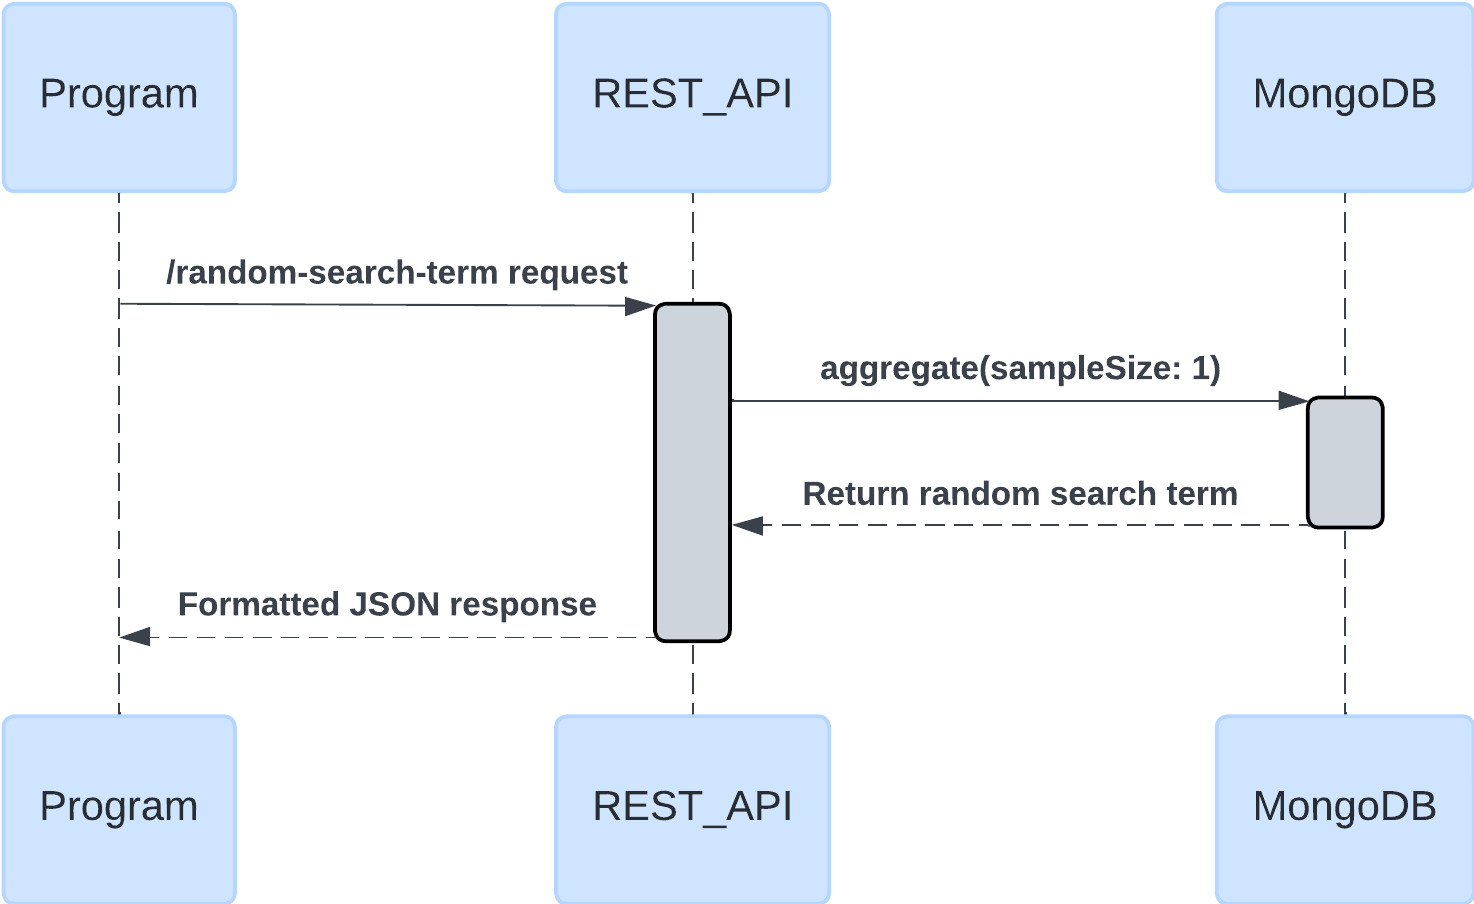
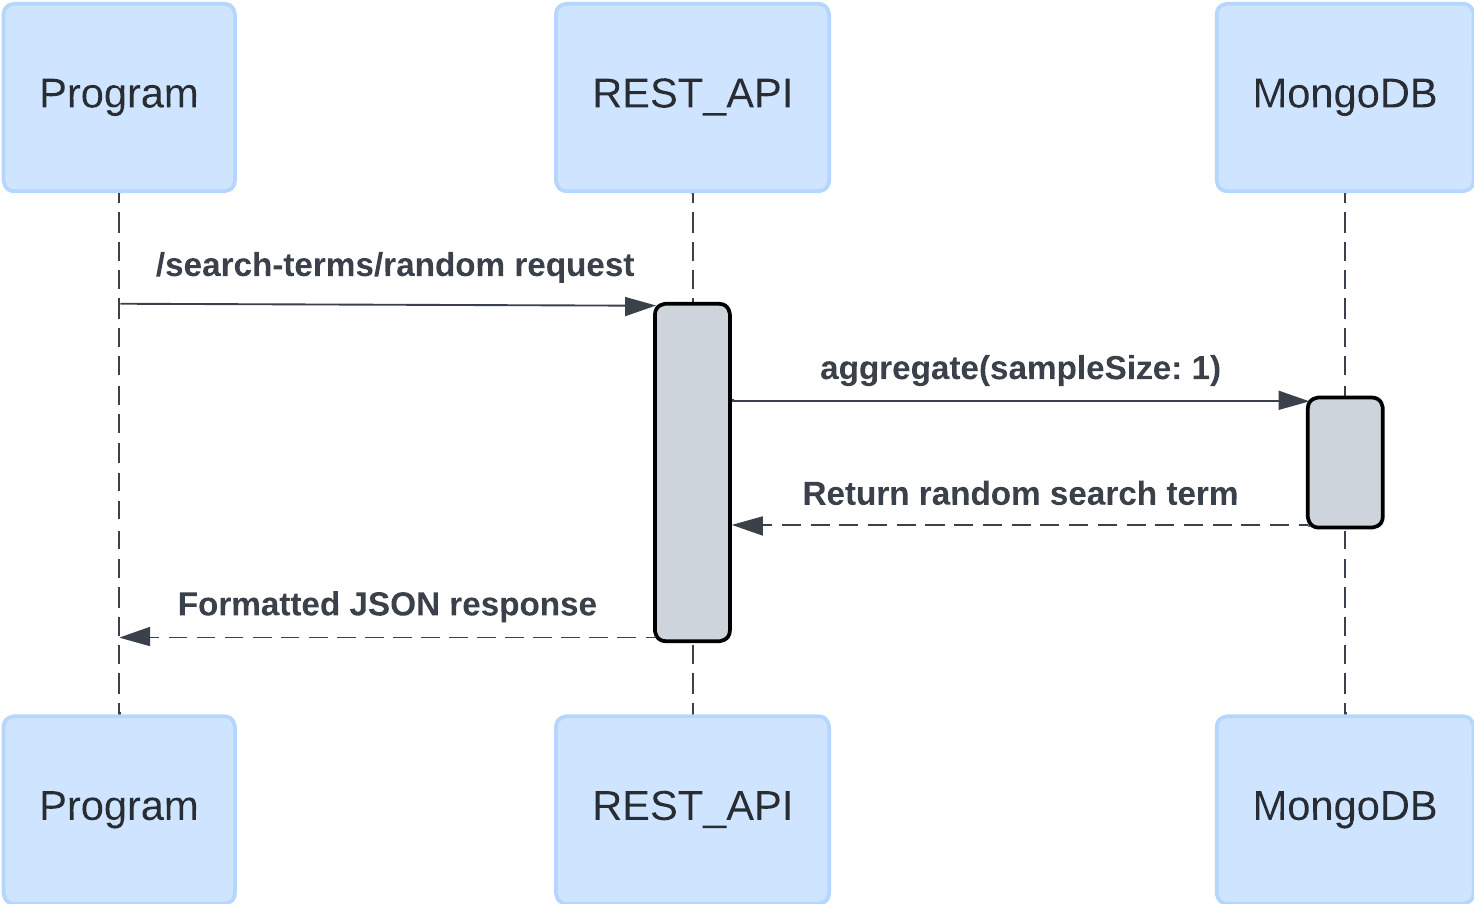
Updated routes and README to reflect more restful URLs

Changed region(s): [[0.0936, 0.2788, 0.4369, 0.3407]]

diff --git a/README.md b/README.md
@@ -16,17 +16,17 @@ To start up the server/application, run `npm start` in the project directory.
 
 ## Making Requests and Receiving Data
 
-There are 4 different endpoints to use in this application, /add-search-term, /all-search-terms, /matching-search-terms, and /random-search-term. The service is not deployed, so the calls are meant to be made via localhost at the port you chose in your env file. In the main application, you may utilize another name for the port in a different env file, or simply hard code the port you chose. In this case, we will just represent the port as PORT in a template literal.
+There are 4 different endpoints to use in this application, /search-terms/add, /search-terms/all, /search-terms/match/:search, and /search-terms/random. The service is not deployed, so the calls are meant to be made via localhost at the port you chose in your env file. In the main application, you may utilize another name for the port in a different env file, or simply hard code the port you chose. In this case, we will just represent the port as PORT in a template literal.
 
 ### Add a Search Term
 
-The endpoint /add-search-term can be used to add a new search term to the database. We can use fetch or axios to make the post request, and place the search term as "search" in the request body. The response includes JSON with an acknowledgement of the addition of the search term and the id of the added search term in the database. These code snippets should be used in an async function.
+The endpoint /search-terms/add can be used to add a new search term to the database. We can use fetch or axios to make the post request, and place the search term as "search" in the request body. The response includes JSON with an acknowledgement of the addition of the search term and the id of the added search term in the database. These code snippets should be used in an async function.
 
 #### Fetch
 
 ```javascript
 // Make the request to the endpoint
-const response = await fetch(`http://localhost:${PORT}/add-search-term`, {
+const response = await fetch(`http://localhost:${PORT}/search-terms/add`, {
   method: "POST",
   headers: {
     "Content-Type": "application/json",
@@ -43,7 +43,7 @@ const response = await response.json();
 ```javascript
 // Make the request to the endpoint
 const response = await axios.post(
-  `http://localhost:${PORT}/add-search-term`,
+  `http://localhost:${PORT}/search-terms/add`,
   {
     search: "search term to add",
   },
@@ -52,7 +52,8 @@ const response = await axios.post(
   }
 );
 
-// Axios automatically parses JSON, so response has data
+// Access response.data for the data
+const data = response.data;
 ```
 
 #### Response Format
@@ -70,13 +71,13 @@ const response = await axios.post(
 
 ### Get All Search Terms
 
-The endpoint /all-search-terms can be used to retrieve all search terms from the database. We can use fetch or axios to make the get request. The response includes JSON with key "searchTerms" that has a value of the array of search terms. These code snippets should be used in an async function.
+The endpoint /search-terms/all can be used to retrieve all search terms from the database. We can use fetch or axios to make the get request. The response includes JSON with key "searchTerms" that has a value of the array of search terms. These code snippets should be used in an async function.
 
 #### Fetch
 
 ```javascript
 // Make the request to the endpoint
-const response = await fetch(`http://localhost:${PORT}/all-search-terms`);
+const response = await fetch(`http://localhost:${PORT}/search-terms/all`);
 
 // Parse the JSON to receive the data
 const response = await response.json();
@@ -86,9 +87,10 @@ const response = await response.json();
 
 ```javascript
 // Make the request to the endpoint
-const response = await axios.get(`http://localhost:${PORT}/all-search-terms`);
+const response = await axios.get(`http://localhost:${PORT}/search-terms/all`);
 
-// Axios automatically parses JSON, so response has data
+// Access response.data for the data
+const data = response.data;
 ```
 
 #### Response Format
@@ -114,19 +116,15 @@ const response = await axios.get(`http://localhost:${PORT}/all-search-terms`);
 
 ### Get Matching Search Terms
 
-The endpoint /matching-search-terms can be used to retrieve all search terms in the database beginning with the string sent in the request. This may represent a portion of a typed word as a user interacts with a search bar in an application. We can use fetch or axios to make the get request, and place the string as "search" in the request body. The response includes JSON with key "searchTerms" that has a value of the array of search terms. These code snippets should be used in an async function.
+The endpoint /search-terms/match/:search can be used to retrieve all search terms in the database beginning with the string sent in the request parameter 'search'. This may represent a portion of a typed word as a user interacts with a search bar in an application. We can use fetch or axios to make the get request, and enter the string as part of the request URL. The response includes JSON with key "searchTerms" that has a value of the array of search terms. These code snippets should be used in an async function.
 
 #### Fetch
 
 ```javascript
 // Make the request to the endpoint
-const response = await fetch(`http://localhost:${PORT}/matching-search-terms`, {
-  method: "GET",
-  headers: {
-    "Content-Type": "application/json",
-  },
-  body: { search: "scho" },
-});
+const response = await fetch(
+  `http://localhost:${PORT}/search-terms/match/scho`
+);
 
 // Parse the JSON to receive the data
 const response = await response.json();
@@ -137,16 +135,11 @@ const response = await response.json();
 ```javascript
 // Make the request to the endpoint
 const response = await axios.get(
-  `http://localhost:${PORT}/add-search-term`,
-  {
-    search: "scho",
-  },
-  {
-    headers: { "Content-Type": "application/json" },
-  }
+  `http://localhost:${PORT}/search-terms/match/scho`
 );
 
-// Axios automatically parses JSON, so response has data
+// Access response.data for the data
+const data = response.data;
 ```
 
 #### Response Format
@@ -163,13 +156,13 @@ const response = await axios.get(
 
 ### Get a Random Search Term
 
-The endpoint /random-search-term can be used to retrieve a random search term from the database. This can be used for "feeling lucky" utilities in an application that utilizes a search functionality. We can use fetch or axios to make the get request. The response includes JSON with key "randomTerm" that has a value of the random search term as a string. These code snippets should be used in an async function.
+The endpoint /search-terms/random can be used to retrieve a random search term from the database. This can be used for "feeling lucky" utilities in an application that utilizes a search functionality. We can use fetch or axios to make the get request. The response includes JSON with key "randomTerm" that has a value of the random search term as a string. These code snippets should be used in an async function.
 
 #### Fetch
 
 ```javascript
 // Make the request to the endpoint
-const response = await fetch(`http://localhost:${PORT}/random-search-term`);
+const response = await fetch(`http://localhost:${PORT}/search-terms/random`);
 
 // Parse the JSON to receive the data
 const response = await response.json();
@@ -179,9 +172,12 @@ const response = await response.json();
 
 ```javascript
 // Make the request to the endpoint
-const response = await axios.get(`http://localhost:${PORT}/random-search-term`);
+const response = await axios.get(
+  `http://localhost:${PORT}/search-terms/random`
+);
 
-// Axios automatically parses JSON, so response has data
+// Access response.data for the data
+const data = response.data;
 ```
 
 #### Response Format
